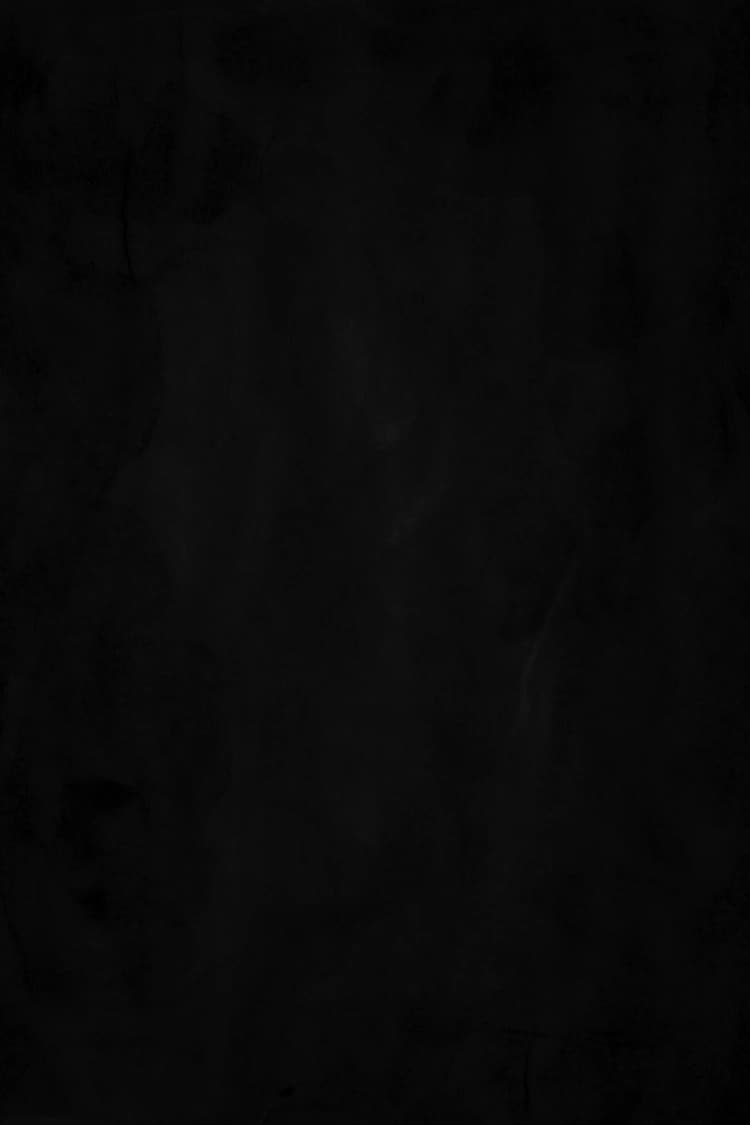
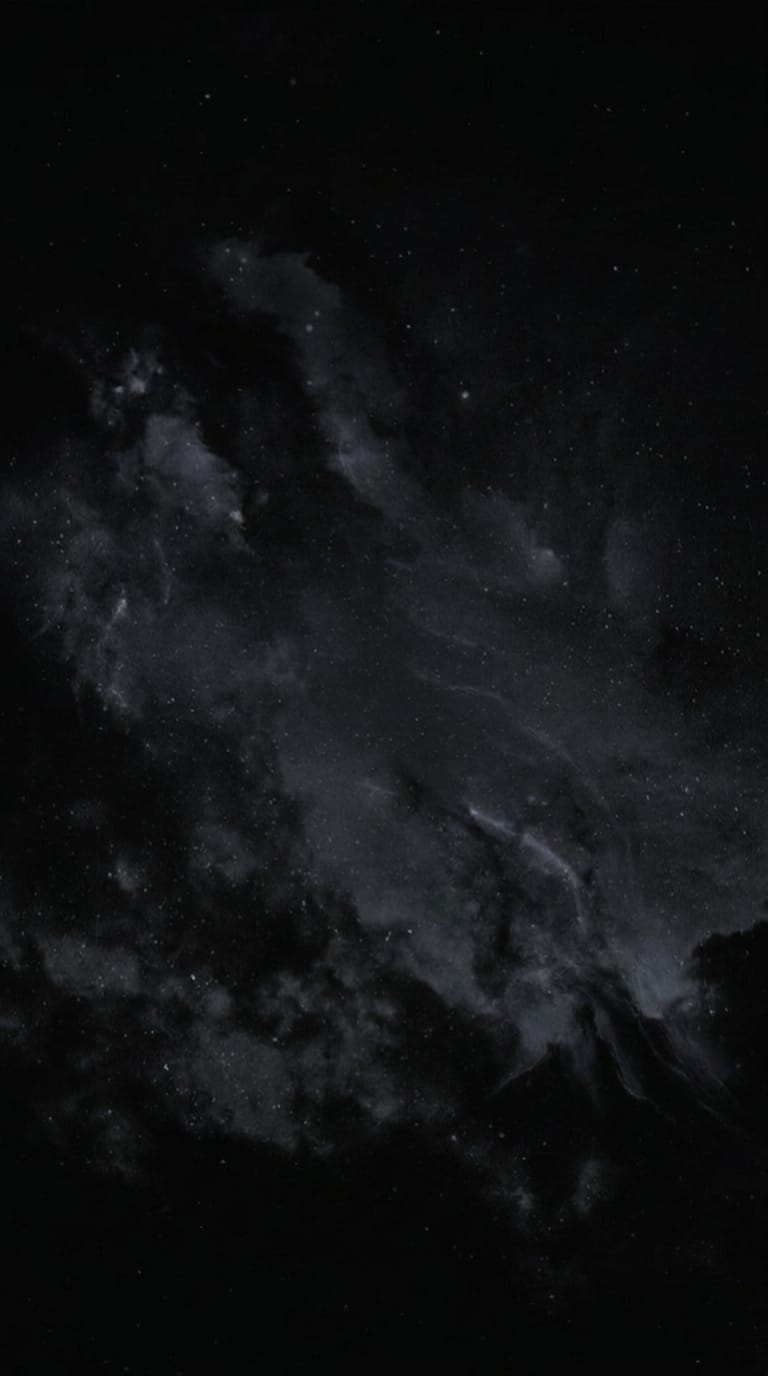
fix: update WhatsApp register command and dark background image

diff --git a/app/page.tsx b/app/page.tsx
@@ -33,7 +33,7 @@ export default function Home() {
     return () => window.removeEventListener("scroll", onScroll);
   }, []);
 
-  const BOT_URL = `https://wa.me/${process.env.NEXT_PUBLIC_BOT_NUMBER ?? "919999999999"}?text=.register`;
+  const BOT_URL = `https://wa.me/${process.env.NEXT_PUBLIC_BOT_NUMBER ?? "919999999999"}?text=register`;
 
   return (
     <>